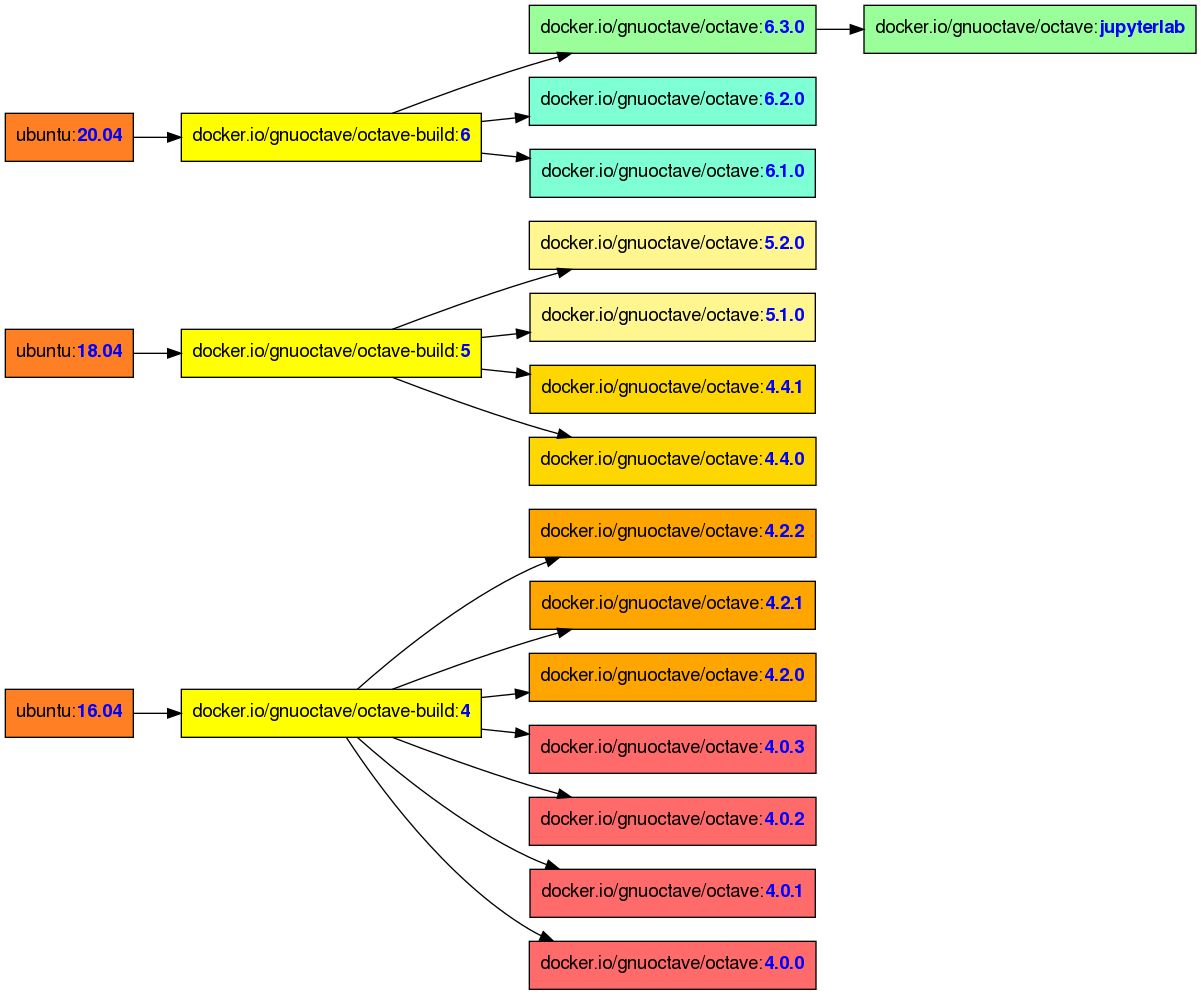
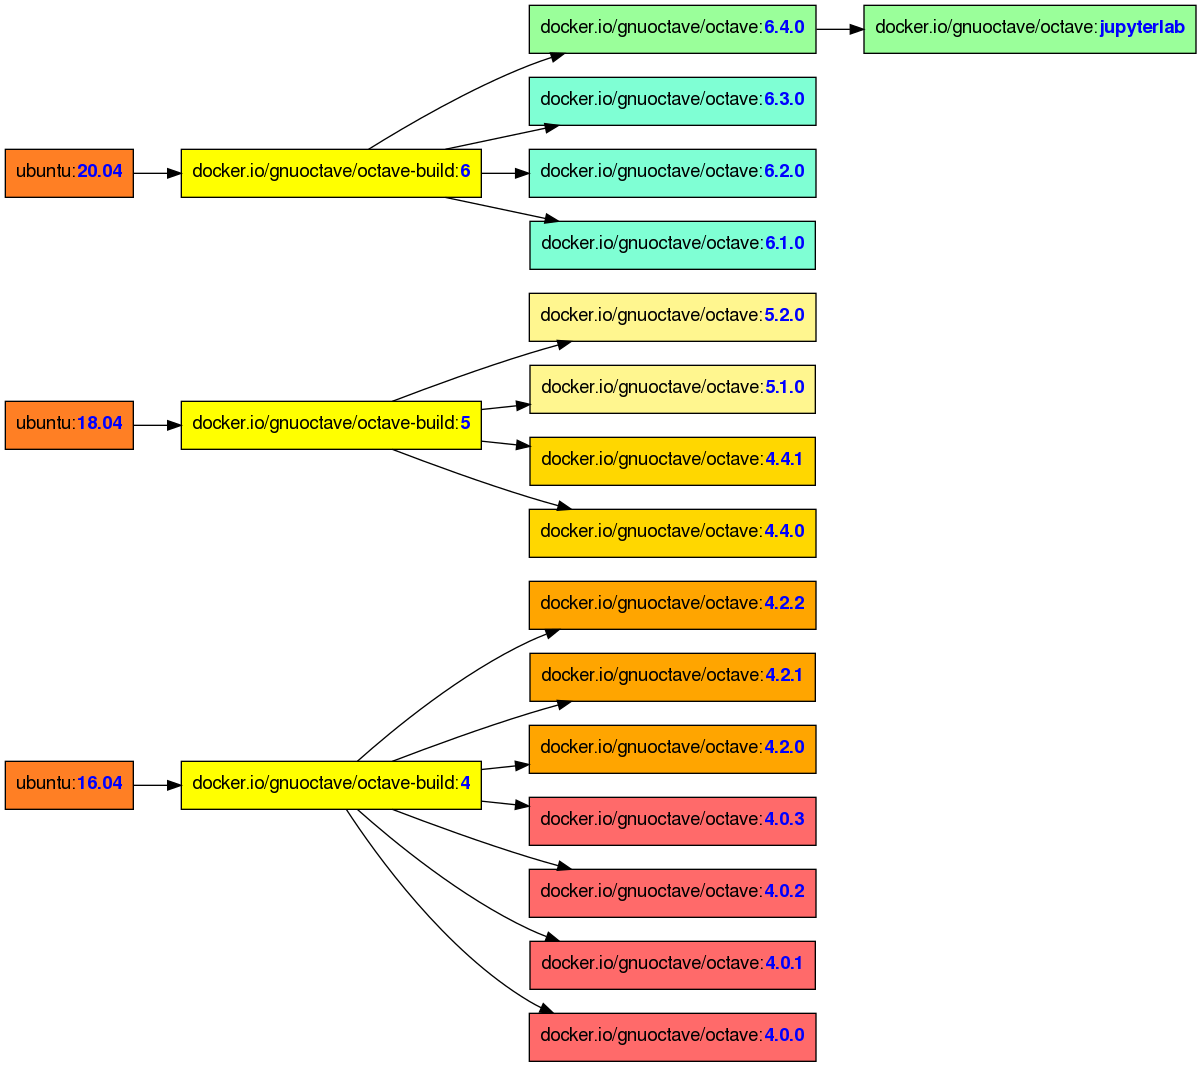
Add Octave 6.4.0

Changed region(s): [[0.0, 0.0, 1.0, 0.997], [0.3697, 0.8724, 0.4005, 0.9035]]

diff --git a/README.md b/README.md
@@ -6,16 +6,16 @@ The Octave images can be run by
 - [Docker](https://www.docker.com/):
   ```sh
   # Obtain image
-  docker pull docker.io/gnuoctave/octave:6.3.0
+  docker pull docker.io/gnuoctave/octave:6.4.0
   # Start container (command-line interface)
-  docker run -it --rm gnuoctave/octave:6.3.0 octave
+  docker run -it --rm gnuoctave/octave:6.4.0 octave
   ```
 - [Podman](https://podman.io/): as before, replace `docker` with `podman`.
 - [Singularity](https://sylabs.io/singularity/): most recommended for GUI mode.
   ```sh
-  singularity pull docker://gnuoctave/octave:6.3.0
+  singularity pull docker://gnuoctave/octave:6.4.0
   # Start container (command-line interface)
-  singularity run octave_6.3.0.sif
+  singularity run octave_6.4.0.sif
   ```
 
 See below for starting Octave with GUI.
@@ -51,7 +51,7 @@ Please adapt the shell command after `-t` respectively.
 
 Using Singularity, start Octave with GUI with this command:
 ```
-singularity exec --bind /run/user octave_6.3.0.sif octave --gui
+singularity exec --bind /run/user octave_6.4.0.sif octave --gui
 ```
 
 Using Docker or Podman run:
@@ -69,7 +69,7 @@ docker run \
   --volume="$HOME:$HOME:rw" \
   --volume="/dev:/dev:rw" \
   --volume="/run/user:/run/user:rw" \
-  docker.io/gnuoctave/octave:6.3.0 start.sh octave --gui
+  docker.io/gnuoctave/octave:6.4.0 start.sh octave --gui
 ```
 
 For old Octave 4.x.x versions you might additionally pass the
